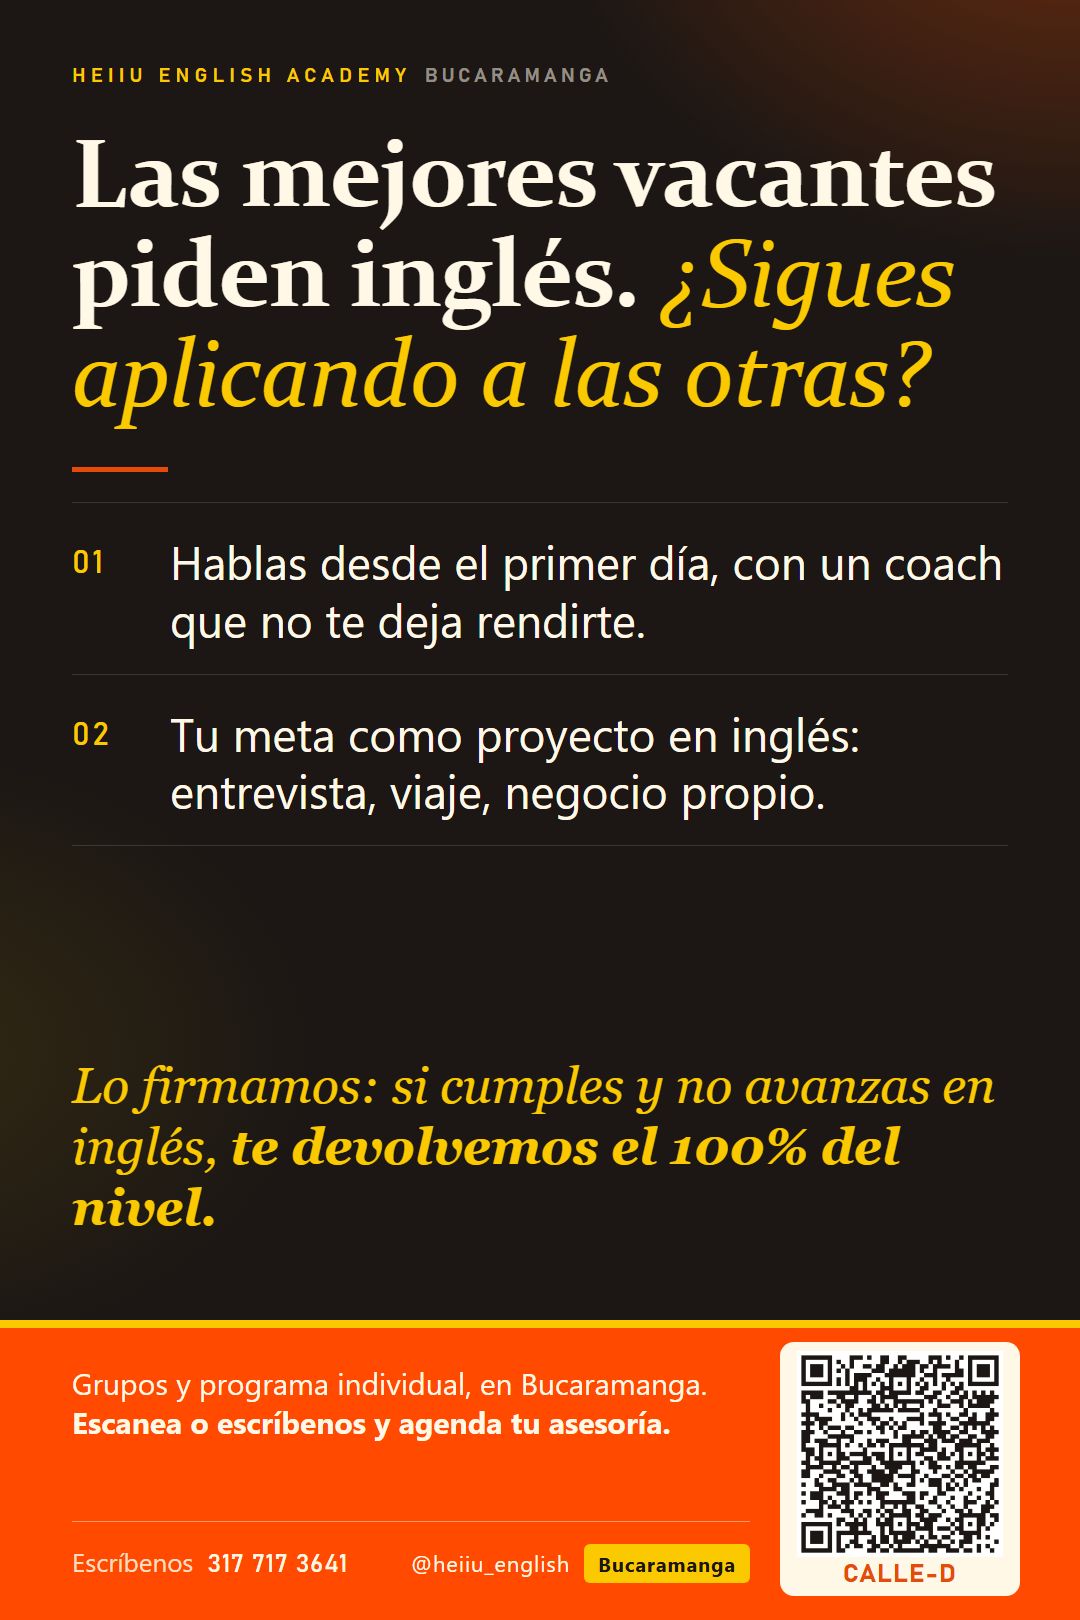
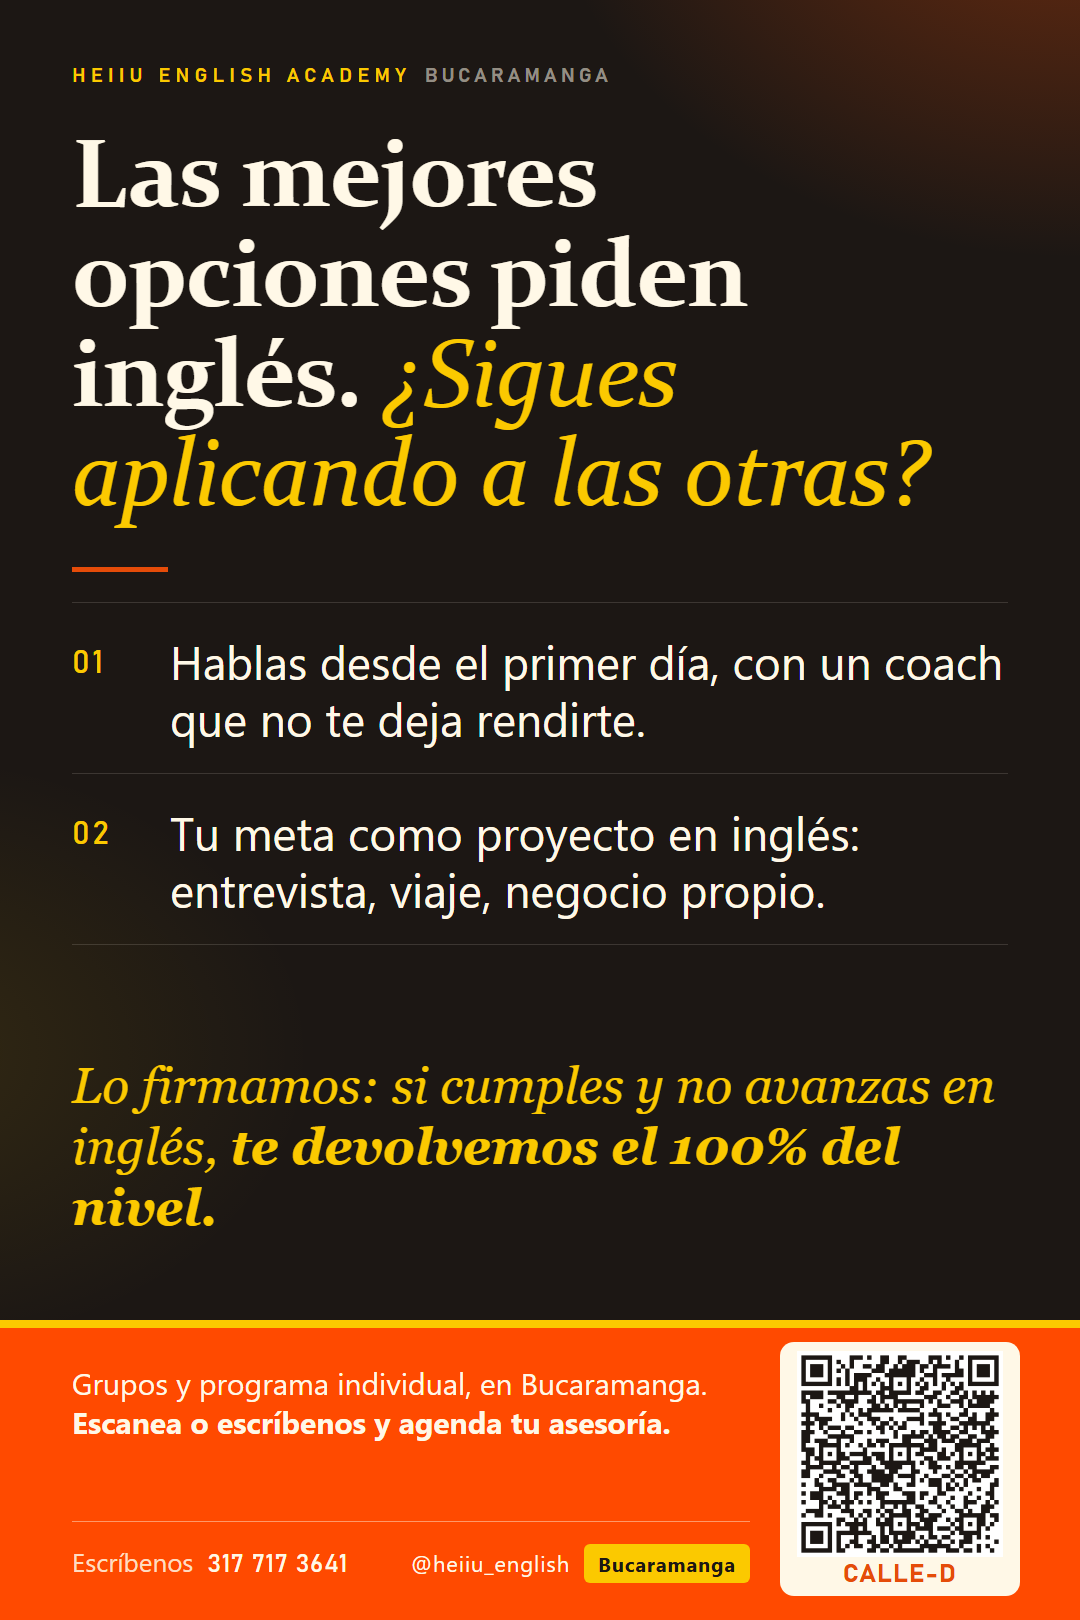
Calle D: 'Las mejores opciones piden ingles' (no 'vacantes': sirve a estudiante y profesional)

diff --git a/generadores/comercial/gen_piezas_conciencia.py b/generadores/comercial/gen_piezas_conciencia.py
@@ -516,7 +516,7 @@ PIEZAS = {
         qr='CALLE-C', tel_qr='<small>Escríbenos</small>' + LINEA, band_px=300),
     'CALLE_D': dict(
         calle=True, label='HEIIU ENGLISH ACADEMY', sub='BUCARAMANGA',
-        h1='Las mejores vacantes piden inglés. <em>¿Sigues aplicando a las otras?</em>',
+        h1='Las mejores opciones piden inglés. <em>¿Sigues aplicando a las otras?</em>',
         xl=True, h1px=96, st=[('Hablas desde el primer día, con un coach que no te deja rendirte.'), ('Tu meta como proyecto en inglés: entrevista, viaje, negocio propio.')],
         lead='Lo firmamos: si cumples y no avanzas en inglés, <b>te devolvemos el 100% del nivel.</b>', big='', big2='',
         band='Grupos y programa individual, en Bucaramanga. <b>Escanea o escríbenos y agenda tu asesoría.</b>',
